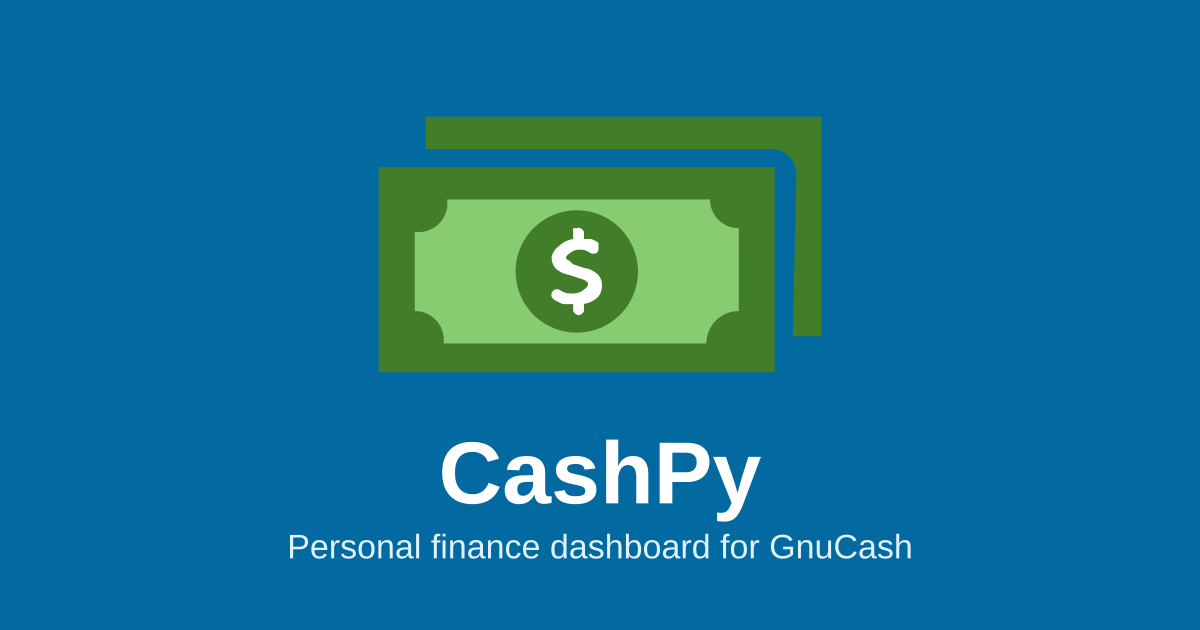
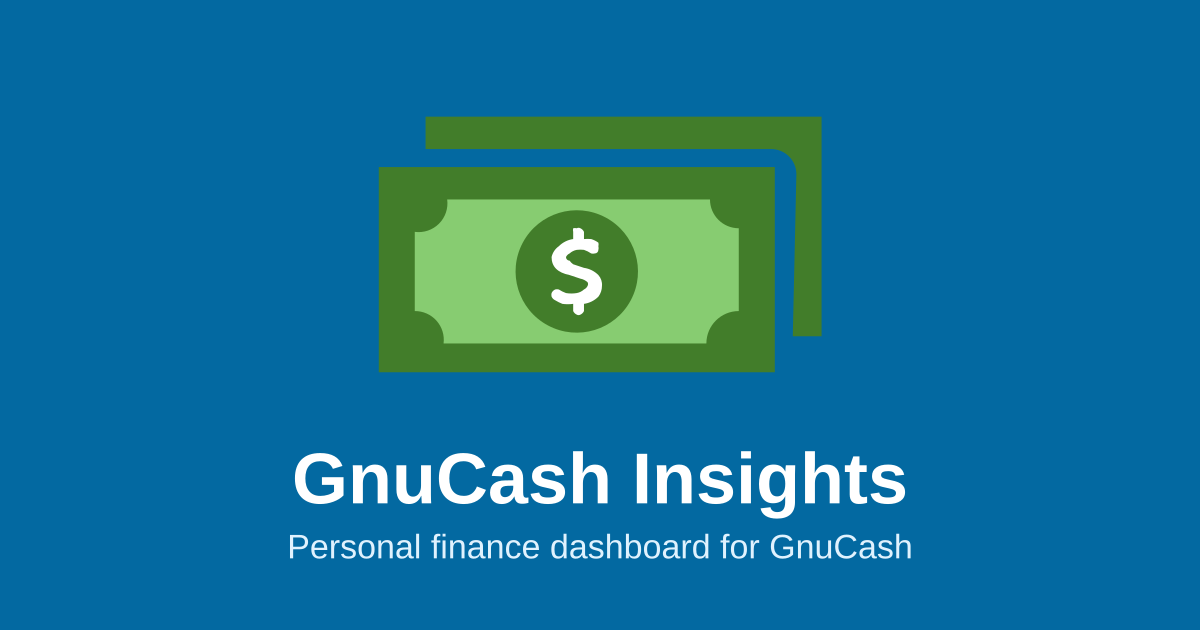
Rebrand CashPy to GnuCash Insights, rewrite README
Renames the app across all user-facing surfaces (title, meta tags, nav
wordmark, i18n strings, OG image) ahead of making the repo public, and
replaces the README with a proper public-facing intro (features, tech
stack, getting started) instead of ad-hoc dev notes.

Changed region(s): [[0.2467, 0.6937, 0.7708, 0.8444]]

diff --git a/index.html b/index.html
@@ -14,10 +14,10 @@
 
     <meta name="apple-mobile-web-app-capable" content="yes" />
     <meta name="apple-mobile-web-app-status-bar-style" content="default" />
-    <meta name="apple-mobile-web-app-title" content="CashPy" />
+    <meta name="apple-mobile-web-app-title" content="GnuCash Insights" />
 
     <meta property="og:type" content="website" />
-    <meta property="og:title" content="CashPy" />
+    <meta property="og:title" content="GnuCash Insights" />
     <meta
       property="og:description"
       content="Track spending, budgets, savings, and net worth from your GnuCash books in a fast, self-hosted personal finance dashboard."
@@ -26,14 +26,14 @@
     <meta property="og:url" content="https://victorvaquero.com/dashboard/" />
 
     <meta name="twitter:card" content="summary_large_image" />
-    <meta name="twitter:title" content="CashPy" />
+    <meta name="twitter:title" content="GnuCash Insights" />
     <meta
       name="twitter:description"
       content="Track spending, budgets, savings, and net worth from your GnuCash books in a fast, self-hosted personal finance dashboard."
     />
     <meta name="twitter:image" content="https://victorvaquero.com/dashboard/og-image.png" />
 
-    <title>CashPy</title>
+    <title>GnuCash Insights</title>
   </head>
   <body class="bg-white dark:bg-shark-900 w-screen h-dvh">
     <div class="w-full h-full" id="root"></div>

diff --git a/src/components/SideBar.tsx b/src/components/SideBar.tsx
@@ -9,7 +9,6 @@ import {
   faMagnifyingGlass,
   faPiggyBank,
   faPlane,
-  faWallet,
 } from "@fortawesome/free-solid-svg-icons";
 import { FontAwesomeIcon } from "@fortawesome/react-fontawesome";
 import { createLink, useRouterState } from "@tanstack/react-router";
@@ -25,7 +24,6 @@ interface NavItem {
 }
 
 const NAV_ITEMS: NavItem[] = [
-  { to: "/home", icon: faWallet, labelKey: "nav.home" },
   { to: "/metadata", icon: faBook, labelKey: "nav.metadata" },
   { to: "/summary", icon: faChartPie, labelKey: "nav.summary" },
   { to: "/expenses", icon: faCoins, labelKey: "nav.expenses" },
@@ -173,13 +171,13 @@ export const SideBar = ({
             ) : (
               <motion.span
                 className="overflow-hidden whitespace-nowrap text-lg font-semibold text-secondary-foreground"
-                key="cashpy-wordmark"
+                key="gnucash-insights-wordmark"
                 initial={wordmarkInitial}
                 animate={wordmarkAnimate}
                 exit={wordmarkExit}
                 transition={wordmarkTransition}
               >
-                CashPy
+                GnuCash Insights
               </motion.span>
             )}
           </AnimatePresence>

diff --git a/src/main.tsx b/src/main.tsx
@@ -75,12 +75,15 @@ const GlobalCOntextProvider = () => {
     getIdToken: auth.getIdToken,
   });
 
-  // On sign out reset global state & invalidate router
+  // On sign out reset global state & send the user back to the public landing page --
+  // protected routes' own beforeLoad guards would otherwise bounce an invalidated router
+  // to /login with a "come back here" redirect, which makes sense for an expired session
+  // hitting a protected URL but not for an explicit sign-out.
   const resetGlobalState = useCallback(() => {
     resetSetupDB();
     setGlobalDbState(EMPTY_GLOBAL_DB_STATE);
     auth.signOut();
-    router.invalidate();
+    router.navigate({ to: "/home" });
     queryClient.invalidateQueries();
   }, [resetSetupDB, auth]);
 

diff --git a/src/routes/home.tsx b/src/routes/home.tsx
@@ -116,7 +116,7 @@ const Home = () => {
         <motion.div initial={MOTION_INITIAL} animate={MOTION_ANIMATE} transition={HERO_TRANSITION}>
           <div className="flex items-center gap-2 text-brand">
             <FontAwesomeIcon icon={faWallet} className="h-5 w-5" />
-            <span className="text-sm font-medium tracking-wide">CashPy</span>
+            <span className="text-sm font-medium tracking-wide">GnuCash Insights</span>
           </div>
 
           <h1 className="mt-4 text-4xl sm:text-5xl lg:text-6xl font-bold text-foreground leading-tight">

diff --git a/src/routes/__root.tsx b/src/routes/__root.tsx
@@ -62,7 +62,7 @@ const RootComponent = () => {
   // Route beforeLoad context stores a translation key, not the resolved string, so a
   // same-page language switch (no navigation) still updates the tab title.
   useEffect(() => {
-    document.title = titleKey ? t(titleKey) : "CashPy";
+    document.title = titleKey ? t(titleKey) : "GnuCash Insights";
   }, [titleKey, t, i18n.language]);
 
   // The drawer now overlays content on every viewport, so close it whenever navigation happens.

diff --git a/README.md b/README.md
@@ -1,48 +1,102 @@
-# Cashpy
+# GnuCash Insights
 
-Vite not working? Delete node_modules, run
+> A fast, self-hosted dashboard that turns a [GnuCash](https://www.gnucash.org/) book into
+> clear, interactive charts — net worth, budgets, spending trends, trips, and transaction
+> analysis, all in your browser.
 
-> pnpm
-> pnpm add -D vite
+![GnuCash Insights preview](public/og-image.png)
 
-A little tab down should be able to relaunch vite, open the server... Also to run server command directly in local do:
+**Live demo:** [victorvaquero.com/dashboard](https://victorvaquero.com/dashboard) — click
+**Try as Guest** to explore with sample data, no sign-up required.
 
-> pnpm run vite
+## Why
 
-## Stories
+GnuCash is a great ledger but a poor dashboard. This app reads the data already sitting in
+your GnuCash book and turns it into the kind of charts you'd expect from a modern budgeting
+app: net worth over time, income vs. expenses, category breakdowns, budget-vs-actual,
+recurring-charge detection, and a searchable/exportable transaction table — while your
+ledger stays the source of truth.
 
-For the initial setup
+## Features
 
-> pnpm storybook init
+- **Summary** — net worth trend, income vs. expenses, savings rate, runway, budget vs.
+  actual, recurring expenses, top movers, all with month/quarter/year granularity and an
+  inflation-adjustment toggle (real vs. nominal terms).
+- **Expenses** — category breakdown with a tree view, this-year vs. all-years comparison,
+  and a spending heatmap.
+- **Trips** — per-trip and per-year travel spend, broken down by account and category.
+- **Analysis** — a filterable, searchable transaction table with CSV export and ad-hoc chart
+  selection.
+- **Guest mode** — a public demo login backed by sample data, so anyone can try the app
+  without connecting real financial data.
+- **Light/dark theme**, **English/Spanish** localization, and a keyboard- and
+  screen-reader-accessible UI (WCAG-conscious components, `axe` checks in CI).
 
-To run the server
+## Tech stack
 
-> pnpm storybook
+| Layer       | Choice                                                                                                                          |
+| ----------- | ------------------------------------------------------------------------------------------------------------------------------- |
+| Framework   | [React 19](https://react.dev/) + [Vite 7](https://vite.dev/)                                                                    |
+| Routing     | [TanStack Router](https://tanstack.com/router) (file-based)                                                                     |
+| Data        | [TanStack Query](https://tanstack.com/query) · [Drizzle ORM](https://orm.drizzle.team/) · [Turso](https://turso.tech/) (libSQL) |
+| Styling     | [Tailwind CSS v4](https://tailwindcss.com/) + [Radix UI](https://www.radix-ui.com/) primitives                                  |
+| Charts      | [Recharts](https://recharts.org/) + hand-rolled D3 charts                                                                       |
+| Validation  | [Zod](https://zod.dev/)                                                                                                         |
+| i18n        | [i18next](https://www.i18next.com/) (`en`, `es`)                                                                                |
+| Testing     | [Vitest](https://vitest.dev/) + [Testing Library](https://testing-library.com/) + [Playwright](https://playwright.dev/)         |
+| Docs/UI kit | [Storybook](https://storybook.js.org/)                                                                                          |
 
-## Deploy
+## Getting started
 
-The app deploys via **Vercel**, connected to this GitHub repo — pushing to the default
-branch triggers a production deploy automatically; every other branch/PR gets its own
-preview deployment. There is no manual build-then-upload step and no separate deploy
-script to run.
+Requires Node.js ≥ 24 and [pnpm](https://pnpm.io/).
+
+```bash
+pnpm install
+pnpm dev
+```
+
+The app runs against a Turso (libSQL) database — see `docs/architecture.md` for the data
+layer, auth, and deployment setup required to run it against your own GnuCash data. There's
+no built-in "drag and drop a GnuCash file" importer yet: ingestion (parsing a GnuCash export
+into the database this app reads) is currently a separate, private pipeline.
+
+Useful scripts:
+
+```bash
+pnpm test          # unit tests (Vitest)
+pnpm test:e2e       # end-to-end tests (Playwright)
+pnpm lint           # oxlint + eslint
+pnpm storybook      # component explorer
+pnpm seed-guest-data # populate local guest/demo data
+```
+
+## Project structure
+
+```
+src/
+├── routes/       # file-based pages (summary, expenses, travels, analysis, ...)
+├── components/   # shared UI (nav, charts, tables)
+├── db/           # Drizzle schema + query builders
+├── services/     # auth, DB connection
+├── i18n/         # en/es translations
+└── hooks/        # cross-cutting client state (theme, auth, persistence)
+```
+
+See [`docs/architecture.md`](docs/architecture.md) for the full architecture write-up.
+
+## Deployment
+
+Deploys via **Vercel**, connected to this GitHub repo — pushing to the default branch
+triggers a production deploy automatically, and every branch/PR gets its own preview
+deployment.
 
 It's served at [victorvaquero.com/dashboard](https://victorvaquero.com/dashboard) as its
-own independent Vercel project. The `resumeweb` repo (which owns the `victorvaquero.com`
-domain) has a `rewrites` rule in its `vercel.json` that proxies `/dashboard/*` to this
-project's Vercel deployment URL — see that repo for details. Rolling back the dashboard
-specifically only requires reverting a deploy here; rolling back the domain mounting
-requires a change in `resumeweb`.
+own independent Vercel project; the domain owner's repo proxies `/dashboard/*` to this
+project's deployment (see `docs/architecture.md` for details). `vercel.json` sets the
+security response headers (CSP, X-Frame-Options, X-Content-Type-Options,
+Referrer-Policy) and the SPA fallback rewrite that lets client-side routes resolve on
+direct load/refresh.
 
-`vercel.json` in this repo sets security response headers (CSP, X-Frame-Options,
-X-Content-Type-Options, Referrer-Policy) and the SPA fallback rewrite that lets
-client-side routes (e.g. `/dashboard/summary`) resolve on direct load/refresh.
+## License
 
-### Legacy: AWS (S3 + CloudFront)
-
-Before Vercel, this app deployed to the `victorvaquero.dashboard.net` S3 bucket fronted by
-CloudFront (distribution `E5ZMBYGUCPRWJ`), via manual `aws s3 sync` +
-`cloudfront create-invalidation` commands. Those scripts have been removed from
-`package.json`. That infrastructure is scheduled for decommission now that Vercel hosting
-is verified working; until then it remains live but unused — tearing it down needs to
-happen separately in the AWS console/CLI, outside this repo. (The `victor-mycash` S3
-bucket that stores the actual financial data files is unrelated and unaffected.)
+[MIT](LICENSE)
